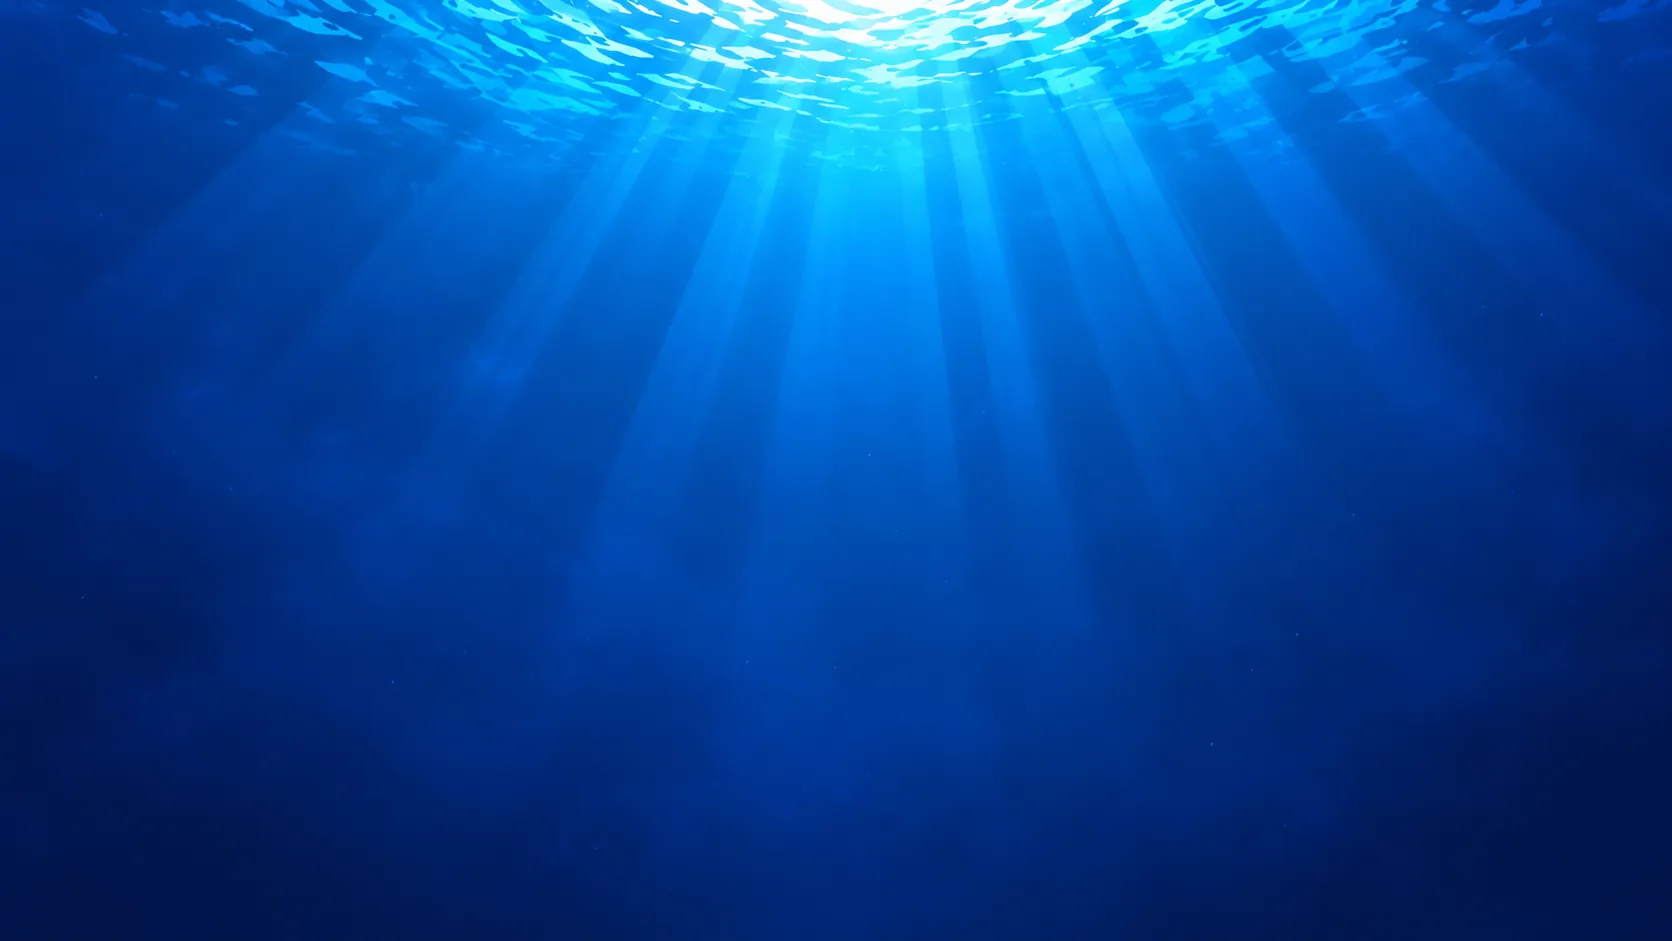
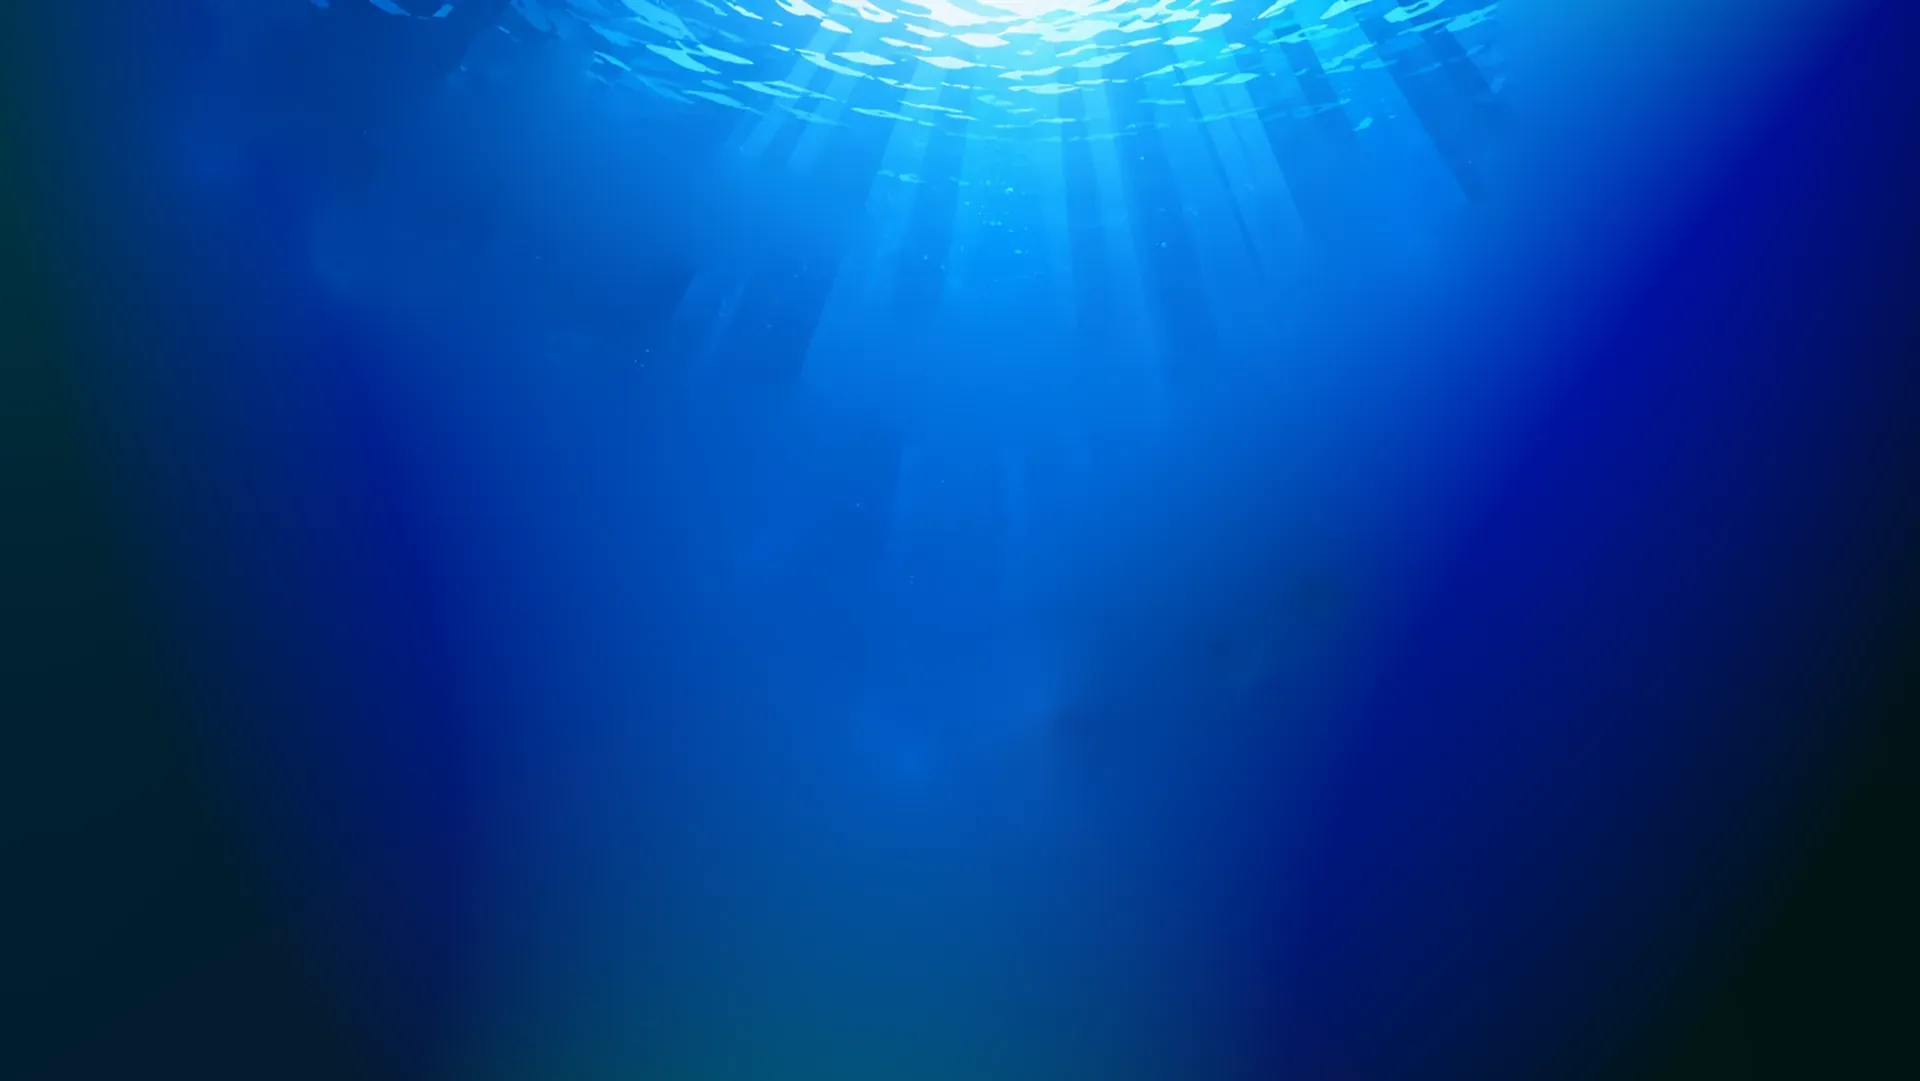
feat: the hero's depth, from eight layers that actually register
Separated out of the composed scene rather than generated, so every element
starts where it is supposed to end. Checked rather than trusted: re-composite the
eight and diff against the source and it comes to 1.25% RMSE. That is what makes
the markup plain — one class for all eight, no per-layer offsets, no overhang to
hide a seam. Layers that share a coordinate system have nothing to correct.

388KB for eight, against 652KB for the seven that did not line up.

The travel budget is the part worth writing down, because it is the opposite of
the intuition. A layer at speed s is translated by scroll * (1 - s), so the
*slowest* layer travels furthest inside its own frame — which is how a parallax
ends up showing the edge of its own sky. Two things hold it: the spread is 0.88
to 1.09, and the scroll driving it stops at half the hero's height, past which
the hero is leaving anyway. Furthest travel is then 6% of the hero, inside a box
116% tall, and the margin is uniform so it does not disturb the registration.

The reef sits at exactly 1.0 and never moves. On a page whose whole argument is
that there is a bottom, the floor holding still is worth more than a few pixels
of effect.

Two things fixed while wiring it. The centring rides inside the animated
transform: a `-translate-y-1/2` class and the per-frame write are the same
property, so the class would have been gone the first time a frame ran and the
stack would have jumped down half its own height on load. And the scrim was
[…]

diff --git a/frontend/src/components/HeroParallax.tsx b/frontend/src/components/HeroParallax.tsx
@@ -1,51 +1,53 @@
 import { useEffect, useRef } from 'react';
 
 /**
- * The hero's depth, as seven drawings moving at seven speeds.
+ * The hero's depth, as one scene separated into eight layers moving at eight speeds.
  *
- * The depth comes from the *difference* in speed, not from any one layer being good — which is why
- * the numbers below are the design and the artwork is only what fills them in. Back to front, each
- * layer moves a fixed fraction of the page's own scroll: the water is almost still because distance
- * is mostly stillness, and the bubbles move faster than the page, which is the part that actually
- * sells it.
+ * Every layer is the same canvas, cut out of the same drawing, so at rest they stack back into the
+ * picture exactly — re-composited and diffed against the source it comes to 1.25% RMSE. That is
+ * what makes the markup below as plain as it is: no per-layer offsets, no nudging, no overhang to
+ * hide a seam, because layers that share a coordinate system have nothing to correct.
  *
- * Written against the scroll position rather than with `background-attachment: fixed` or a
- * scroll-linked animation, because both of those pin to the viewport and this has to pin to the
- * hero — the layers must leave with the section they belong to rather than following the reader
- * down the page.
+ * The travel budget is the part worth understanding, and it is why the speeds are close together.
+ * A layer at speed s must be translated by `scroll * (1 - s)` to appear to move at s — the page has
+ * already moved it once, and this adds back the difference. That means the *slowest* layer travels
+ * furthest inside its own frame, which is the opposite of the intuition, and it is how a parallax
+ * ends up showing the edge of its own sky. Two things keep it inside:
+ *
+ *   - the spread is 0.88 to 1.09, so the widest gap from the page's own speed is 0.12;
+ *   - the scroll driving it is capped at half the hero's height, because past that the hero is
+ *     leaving anyway and nothing is gained by still moving it.
+ *
+ * Together the furthest any layer travels is 6% of the hero's height, and every layer sits in a
+ * box 116% tall, centred. The margin is uniform, so it does not disturb the registration.
+ *
+ * The reef sits at exactly 1.0 and never moves. It is the floor of the picture, and on a page whose
+ * whole argument is that there is a bottom, the floor being the one thing that holds still is worth
+ * more than another few pixels of effect.
  */
 
 type Layer = {
   src: string;
-  /** Fraction of the page's scroll this layer travels. Below 1 it lags, above 1 it leads. */
+  /** Fraction of the page's scroll this layer appears to travel. Below 1 it lags, above 1 it leads. */
   speed: number;
-  /** Where its own bottom sits relative to the hero's, as a percentage of the hero's height. */
-  bottom: number;
-  className: string;
-  /** Slow continuous drift, independent of scroll — for the two layers that are suspended in water. */
+  /** Slow continuous sway, independent of scroll, for the things suspended in water. */
   drift?: number;
 };
 
-/*
- * The stack. Contrast descends with distance and only the last three are dark; everything behind
- * them stays inside the water's value range, or the hero turns to noise and the headline stops
- * being readable.
- */
+/** Back to front. The order is the scene's own depth and must not be reordered. */
 const LAYERS: Layer[] = [
-  // The water and its light shafts. Almost still.
-  { src: '/parallax/water.webp', speed: 0.05, bottom: 0, className: 'top-0 h-full object-cover opacity-95' },
-  // The trench walls, framing the middle and giving it somewhere to be.
-  { src: '/parallax/ruins.webp', speed: 0.22, bottom: 0, className: 'bottom-0 opacity-80' },
-  // Life in the mid-water. Faster than the walls, slower than anything with a floor under it.
-  { src: '/parallax/whale.webp', speed: 0.34, bottom: 18, className: 'opacity-75', drift: 9 },
-  { src: '/parallax/jelly.webp', speed: 0.5, bottom: 8, className: 'opacity-90', drift: -14 },
-  // The seabed. The floor of the picture, and the product's own word for its subject.
-  { src: '/parallax/seabed.webp', speed: 0.72, bottom: 0, className: 'bottom-0' },
-  // The mascot on its rock, nearer than the seabed it looks out over.
-  { src: '/parallax/mascot.webp', speed: 0.86, bottom: 0, className: 'bottom-0' },
-  // Nearest, and the only layer that leads the page.
-  { src: '/parallax/bubbles.webp', speed: 1.25, bottom: 0, className: 'bottom-0 opacity-70', drift: -22 },
+  { src: '/parallax/water.webp', speed: 0.88 },
+  { src: '/parallax/structures.webp', speed: 0.91 },
+  { src: '/parallax/whale.webp', speed: 0.93, drift: 7 },
+  { src: '/parallax/jellyfish.webp', speed: 0.95, drift: -9 },
+  { src: '/parallax/midrocks.webp', speed: 0.975 },
+  { src: '/parallax/reef.webp', speed: 1 },
+  { src: '/parallax/mascot.webp', speed: 1.03 },
+  { src: '/parallax/bubbles.webp', speed: 1.09, drift: -13 },
 ];
+
+/** How much of the hero's own height the parallax plays out over. See the note above. */
+const RANGE = 0.5;
 
 export function HeroParallax() {
   const host = useRef<HTMLDivElement>(null);
@@ -53,52 +55,37 @@ export function HeroParallax() {
   useEffect(() => {
     const el = host.current;
     if (!el) return;
-    const still = globalThis.matchMedia?.('(prefers-reduced-motion: reduce)');
-    // Frozen, not hidden: the hero has to read as a still image, not as a missing one.
-    if (still?.matches) return;
+    // Frozen rather than hidden: the hero still has to read as a still image.
+    if (globalThis.matchMedia?.('(prefers-reduced-motion: reduce)').matches) return;
 
     const layers = Array.from(el.querySelectorAll<HTMLElement>('[data-speed]'));
-    let frame: number | null = null;
     const start = performance.now();
+    let loop = 0;
 
     const draw = (now: number) => {
-      frame = null;
-      const y = globalThis.scrollY ?? 0;
+      const reach = el.clientHeight * RANGE;
+      const y = Math.min(globalThis.scrollY ?? 0, reach);
       const t = (now - start) / 1000;
       for (const layer of layers) {
         const speed = Number(layer.dataset.speed);
         const drift = Number(layer.dataset.drift ?? 0);
-        /*
-         * A layer at speed s should appear to travel s× the page, and the page has already moved
-         * it by 1× — so what this adds back is the difference. Writing the absolute offset instead
-         * makes every layer drift away from the hero as the reader goes down the page.
-         */
-        const dy = y * (speed - 1) + (drift ? Math.sin(t * 0.22 + speed) * drift : 0);
-        layer.style.transform = `translate3d(0, ${dy.toFixed(1)}px, 0)`;
+        const dy = y * (1 - speed) + (drift ? Math.sin(t * 0.2 + speed * 7) * drift : 0);
+        // The centring rides along inside the transform. A `-translate-y-1/2` class and this write
+        // are the same property, so the class would be gone the first time a frame ran — and the
+        // whole stack would jump down by half its own height on load.
+        layer.style.transform = `translate3d(0, calc(-50% + ${dy.toFixed(2)}px), 0)`;
       }
+      loop = requestAnimationFrame(draw);
     };
 
-    // One write per frame at most. Scroll fires far more often than the screen refreshes, and
-    // setting a transform per event is how a parallax becomes the reason a page feels heavy.
-    const schedule = () => {
-      if (frame === null) frame = requestAnimationFrame(draw);
-    };
-
-    // The drifting layers need frames even when nothing scrolls, so the loop runs on its own and
-    // scroll only makes sure it is not asleep when the position changes.
-    let loop: number;
-    const tick = (now: number) => {
-      draw(now);
-      loop = requestAnimationFrame(tick);
-    };
-    loop = requestAnimationFrame(tick);
-    globalThis.addEventListener('scroll', schedule, { passive: true });
-
-    return () => {
-      globalThis.removeEventListener('scroll', schedule);
-      cancelAnimationFrame(loop);
-      if (frame !== null) cancelAnimationFrame(frame);
-    };
+    /*
+     * One loop, no scroll listener. The drifting layers need a frame every frame regardless, so a
+     * scroll handler would only be a second way to ask for work already being done — and a
+     * transform written per scroll event rather than per frame is how a parallax becomes the reason
+     * a page feels heavy.
+     */
+    loop = requestAnimationFrame(draw);
+    return () => cancelAnimationFrame(loop);
   }, []);
 
   return (
@@ -112,19 +99,18 @@ export function HeroParallax() {
           data-speed={layer.speed}
           data-drift={layer.drift ?? 0}
           /*
-           * Wider than the frame and pulled left by the overhang, so a layer that has been moved
-           * up or down never shows an edge. `will-change` is set once here rather than toggled:
-           * every one of these moves on every frame the hero is on screen.
+           * Identical for all eight, which is the whole point: the same box, the same fit, the same
+           * origin. Anything applied to one and not the others would pull that layer out of the
+           * registration the separation was done to get.
            */
-          className={`absolute left-1/2 w-[112%] max-w-none -translate-x-1/2 select-none ${layer.className}`}
-          style={{
-            bottom: layer.className.includes('top-0') ? undefined : `${layer.bottom}%`,
-            willChange: 'transform',
-          }}
+          className="absolute top-1/2 left-0 h-[116%] w-full object-cover select-none"
+          // Centred here too, so the stack is right before the first frame and stays right under
+          // prefers-reduced-motion, where no frame ever runs.
+          style={{ transform: 'translate3d(0, -50%, 0)', willChange: 'transform' }}
         />
       ))}
       {/*
-       * The foot of the hero becomes the page. Without it the seabed stops on a hard line at the
+       * The foot of the hero becomes the page. Without it the reef stops on a hard line at the
        * fold, which reads as a cropped image rather than as water continuing past the screen.
        */}
       <div

diff --git a/frontend/src/components/screens/Landing.tsx b/frontend/src/components/screens/Landing.tsx
@@ -2,7 +2,7 @@ import { ArrowRight } from 'lucide-react';
 import { copy } from '../../copy.ts';
 import { Act } from '../Button.tsx';
 import { PriceLadder } from '../PriceLadder.tsx';
-import { Seabed } from '../Seabed.tsx';
+import { HeroParallax } from '../HeroParallax.tsx';
 import { ProductShot } from '../ProductShot.tsx';
 import { FeatureGrid } from '../FeatureGrid.tsx';
 import { Faq } from '../Faq.tsx';
@@ -29,18 +29,12 @@ export function Landing({ onNavigate }: { onNavigate: (s: Screen) => void }) {
       {/* Full-bleed wrapper: the texture belongs to the viewport, the words belong to the column. */}
       <div className="relative">
       {/*
-        * The composed scene, until the layers can register with each other.
-        *
-        * `HeroParallax` and its assets are still in the tree and still correct about motion — what
-        * was wrong was the artwork: eight layers generated independently cannot share a coordinate
-        * system, so the jellyfish came out three times their size and the mascot landed in the sky.
-        * `docs/hero-parallax-split-prompts.md` separates them out of this same image instead, which
-        * is the only way every element starts at the position it is supposed to end at.
-        *
-        * Swapping back is this one element.
+        * The scene, separated into eight layers that still register with each other — checked by
+        * re-compositing them and diffing against the source, 1.25% RMSE. The board keeps the flat
+        * one: eight layers moving behind a table of numbers is a page that is hard to read.
         */}
       <div className="pointer-events-none absolute inset-x-0 top-0 h-[calc(100vh-60px)]">
-        <Seabed intensity="hero" />
+        <HeroParallax />
       </div>
 
       <div className="relative mx-auto max-w-[1100px] px-[clamp(18px,4vw,36px)] pb-24">

diff --git a/frontend/src/index.css b/frontend/src/index.css
@@ -669,9 +669,12 @@ body {
    *
    * The old hero was one drawing at 90% over the page's ground and stayed inside the water's dark
    * range. The parallax stack puts a lit water layer there instead, and measured across the band
-   * the headline occupies its brightest point is rgb(46,138,243). At 0.72 the headline still
-   * cleared 5.3 but everything under it did not: the supporting line fell to 2.5, the smallest
-   * type to 2.3, and the cyan to 3.9. 0.38 is the first step where the weakest of them passes.
+   * the headline occupies its brightest point is rgb(2,123,230). At 0.72 the headline still cleared
+   * 6.2 but nothing under it did: the supporting line fell to 2.9, the smallest type to 2.6, and
+   * the cyan to 4.5. At 0.38 the weakest of them is 5.1.
+   *
+   * Re-measured against the separated water layer rather than carried over — the layer changed, so
+   * the number that was derived from it had to be checked rather than assumed.
    *
    * It stays a mask rather than a box, so it darkens the column the words are in and leaves the
    * rest of the picture lit — which is the whole reason to scrim rather than to dim the layer.
